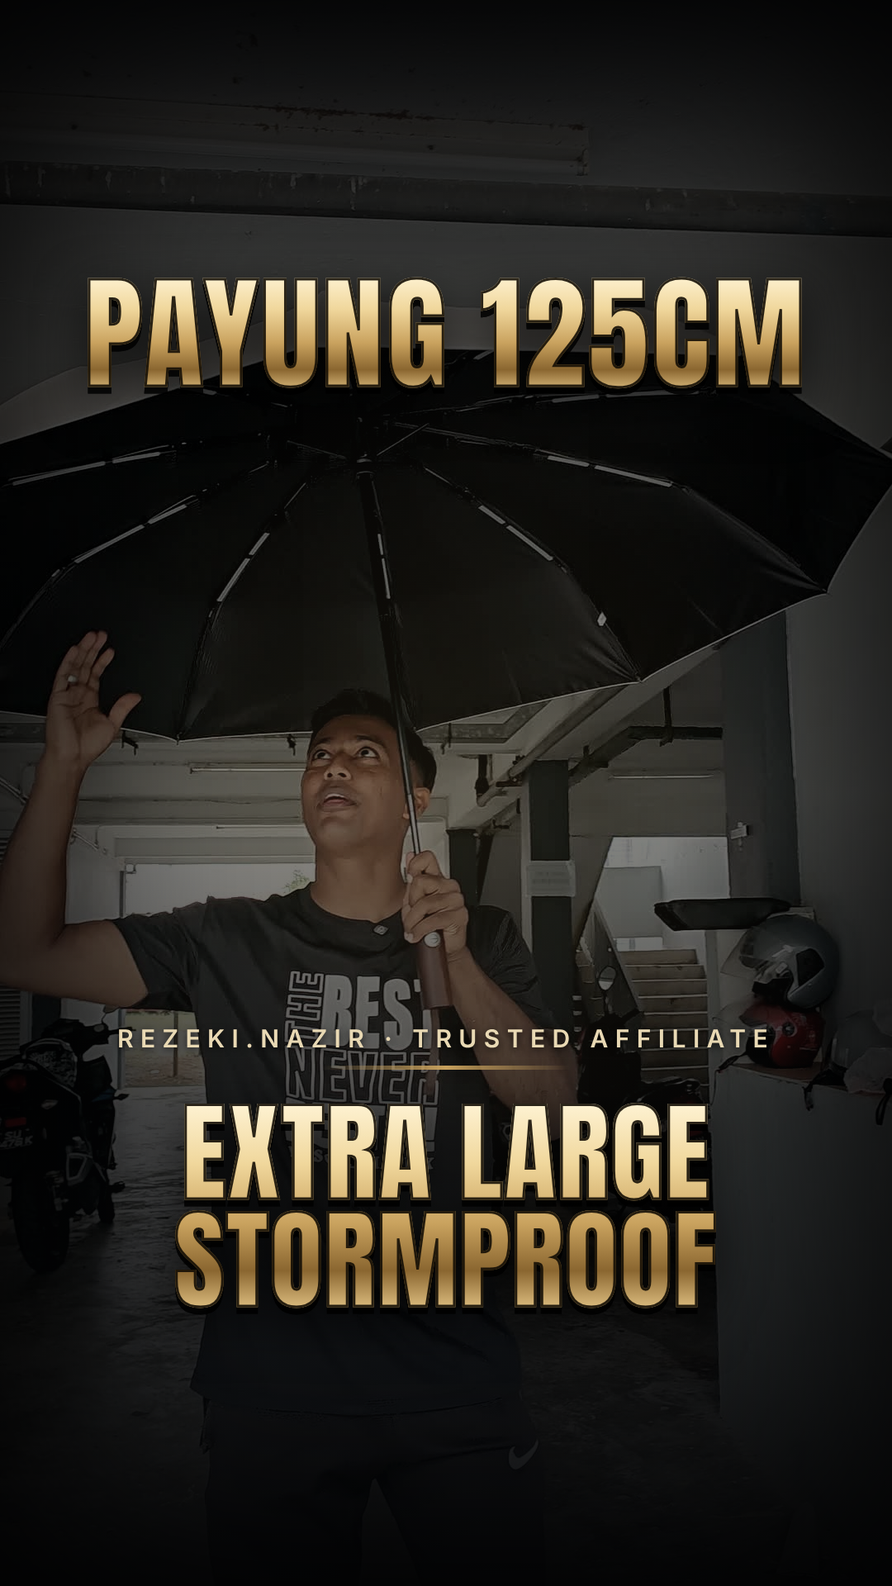
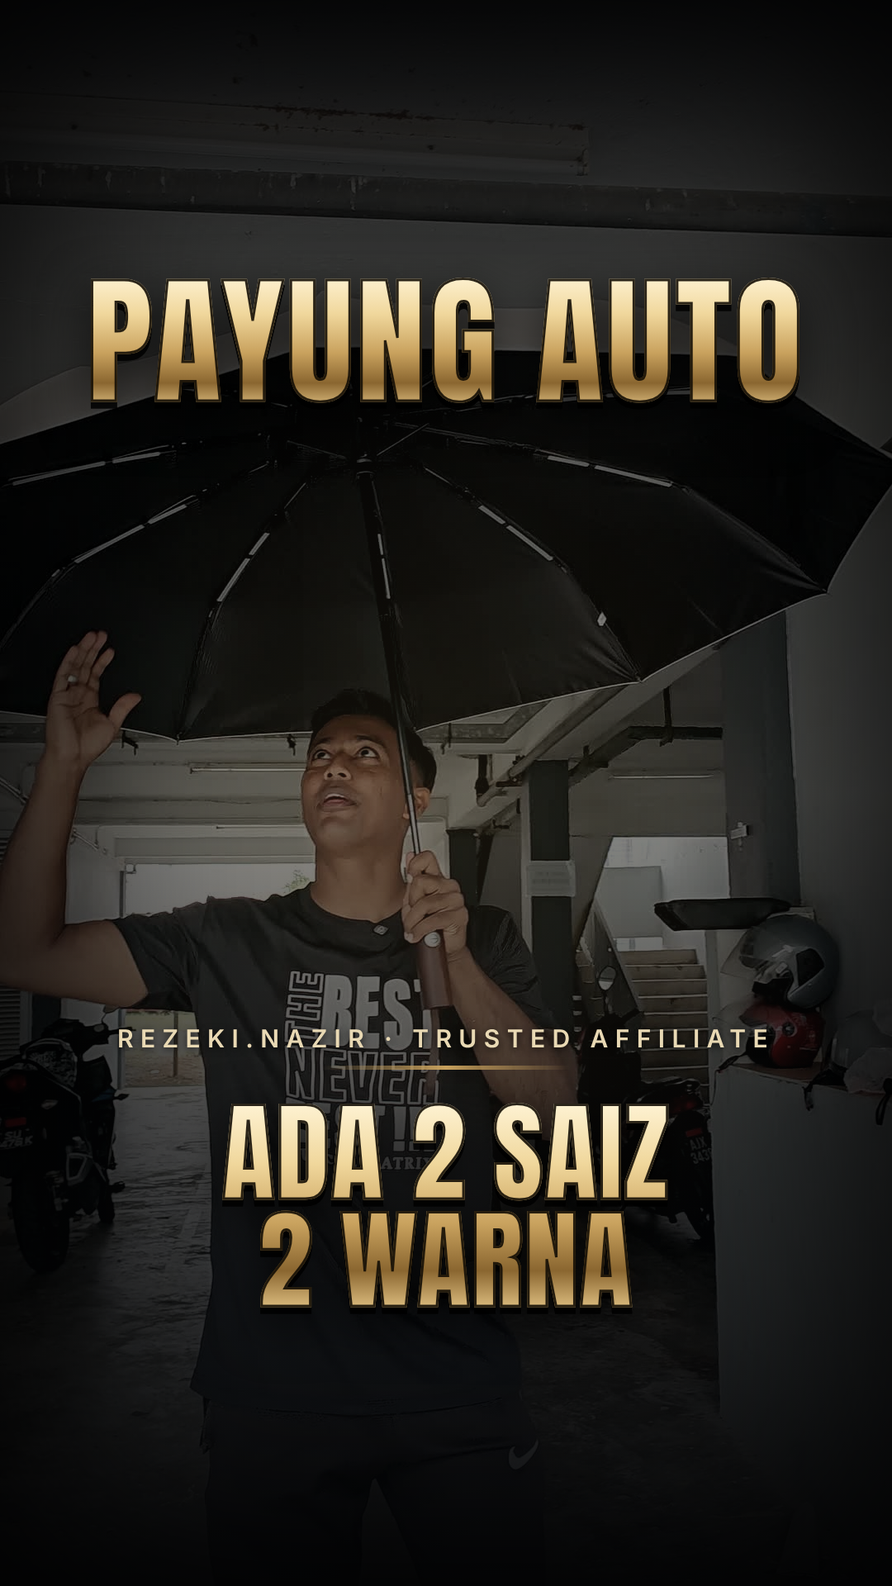
Umbrella videos: drop 125cm (two sizes), size-neutral product image, cover 6 'Payung auto · ada 2 saiz'
Claude-Session: https://claude.ai/code/session_014bXYobToP3QqzN2tDRbhyr

Changed region(s): [[0.1833, 0.6875, 0.825, 0.8438], [0.0917, 0.1562, 0.9167, 0.2812]]

diff --git a/payung-6/compositions/sc.html b/payung-6/compositions/sc.html
@@ -26,11 +26,11 @@
 
   </style>
   <div id="root" data-composition-id="sc" data-width="1080" data-height="1920">
-    <div id="hk" class="head clip" data-start="0.2" data-duration="2.9" data-track-index="0" style="top:1290px"><div id="hkt">Payung<br/><em>125CM</em></div></div>
+    <div id="hk" class="head clip" data-start="0.2" data-duration="2.9" data-track-index="0" style="top:1290px"><div id="hkt">Payung<br/><em>2 saiz</em></div></div>
     <div id="c-magic" class="chip clip" data-start="3.3" data-duration="1.9667" data-track-index="0" style="top:1330px"><span><span id="c-magicc" class="ic"><svg viewBox="0 0 24 24" fill="#fff"><path d="M12 2.5l2.9 6 6.6.9-4.8 4.6 1.2 6.5L12 17.4l-5.9 3.1 1.2-6.5L2.5 9.4l6.6-.9z"/></svg></span><span id="c-magicb" class="lb">Memang best</span></span></div>
     <div id="c-kain" class="chip clip" data-start="5.3667" data-duration="1.2667" data-track-index="0" style="top:1330px"><span><span id="c-kainc" class="ic"><svg viewBox="0 0 24 24" fill="#fff"><path d="M12 2.5l2.9 6 6.6.9-4.8 4.6 1.2 6.5L12 17.4l-5.9 3.1 1.2-6.5L2.5 9.4l6.6-.9z"/></svg></span><span id="c-kainb" class="lb">Kain tebal</span></span></div>
     <div id="p-size" class=" clip" data-start="6.7333" data-duration="2.9" data-track-index="0" style="position:absolute; inset:0" data-layout-allow-overflow><div id="p-sizebg" style="position:absolute;inset:0;background:rgba(8,9,12,.72)"></div><div id="p-sizec" style="position:absolute;left:100px;top:600px;width:880px;border-radius:30px;overflow:hidden;background:#fff;box-shadow:0 30px 80px rgba(0,0,0,.6)"><img src="assets/img/size.jpg" alt="" style="display:block;width:880px"/></div></div>
-    <div id="c-xl" class="chip clip" data-start="6.8333" data-duration="2.8" data-track-index="0" style="top:1330px"><span><span id="c-xlc" class="ic"><svg viewBox="0 0 24 24" fill="none" stroke="#fff" stroke-width="2" stroke-linecap="round" stroke-linejoin="round"><path d="M12 3s6 6.5 6 11a6 6 0 0 1-12 0c0-4.5 6-11 6-11z"/></svg></span><span id="c-xlb" class="lb">Extra large 125cm</span></span></div>
+    <div id="c-xl" class="chip clip" data-start="6.8333" data-duration="2.8" data-track-index="0" style="top:1330px"><span><span id="c-xlc" class="ic"><svg viewBox="0 0 24 24" fill="none" stroke="#fff" stroke-width="2" stroke-linecap="round" stroke-linejoin="round"><path d="M12 3s6 6.5 6 11a6 6 0 0 1-12 0c0-4.5 6-11 6-11z"/></svg></span><span id="c-xlb" class="lb">Ada 2 saiz</span></span></div>
     <div id="c-cun" class="chip clip" data-start="9.7333" data-duration="1.2333" data-track-index="0" style="top:1330px"><span><span id="c-cunc" class="ic"><svg viewBox="0 0 24 24" fill="#fff"><path d="M12 20.5s-7.5-4.6-7.5-10A4.3 4.3 0 0 1 12 7.6a4.3 4.3 0 0 1 7.5 2.9c0 5.4-7.5 10-7.5 10z"/></svg></span><span id="c-cunb" class="lb">Krim &amp; hitam</span></span></div>
     <div id="c-baloi" class="chip clip" data-start="11.0667" data-duration="3.0" data-track-index="0" style="top:1330px"><span><span id="c-baloic" class="ic"><svg viewBox="0 0 24 24" fill="#fff"><path d="M12 2.5l2.9 6 6.6.9-4.8 4.6 1.2 6.5L12 17.4l-5.9 3.1 1.2-6.5L2.5 9.4l6.6-.9z"/></svg></span><span id="c-baloib" class="lb">Keluar masuk kereta, berbaloi</span></span></div>
   </div>

diff --git a/payung-5/compositions/sc.html b/payung-5/compositions/sc.html
@@ -31,8 +31,8 @@
     <div id="c-jimat" class="chip clip" data-start="3.8" data-duration="2.3667" data-track-index="0" style="top:1330px"><span><span id="c-jimatc" class="ic"><svg viewBox="0 0 24 24" fill="#fff"><path d="M12 2.5l2.9 6 6.6.9-4.8 4.6 1.2 6.5L12 17.4l-5.9 3.1 1.2-6.5L2.5 9.4l6.6-.9z"/></svg></span><span id="c-jimatb" class="lb">Jimat masa, ruang, tenaga</span></span></div>
     <div id="c-uv" class="chip clip" data-start="6.2667" data-duration="2.8333" data-track-index="0" style="top:1330px"><span><span id="c-uvc" class="ic"><svg viewBox="0 0 24 24" fill="#fff"><path d="M12 2.5l2.9 6 6.6.9-4.8 4.6 1.2 6.5L12 17.4l-5.9 3.1 1.2-6.5L2.5 9.4l6.6-.9z"/></svg></span><span id="c-uvb" class="lb">Lindung UV</span></span></div>
     <div id="c-fiber" class="chip clip" data-start="9.2" data-duration="2.3667" data-track-index="0" style="top:1330px"><span><span id="c-fiberc" class="ic"><svg viewBox="0 0 24 24" fill="none" stroke="#fff" stroke-width="2" stroke-linecap="round" stroke-linejoin="round"><path d="M4 14l8-8 8 8"/><path d="M6 14v5M9 14v6M12 14v6M15 14v6M18 14v5"/></svg></span><span id="c-fiberb" class="lb">Fiber bone, tak mudah patah</span></span></div>
-    <div id="c-125" class="chip clip" data-start="11.6667" data-duration="1.9" data-track-index="0" style="top:1330px"><span><span id="c-125c" class="ic"><svg viewBox="0 0 24 24" fill="none" stroke="#fff" stroke-width="2" stroke-linecap="round" stroke-linejoin="round"><path d="M12 3s6 6.5 6 11a6 6 0 0 1-12 0c0-4.5 6-11 6-11z"/></svg></span><span id="c-125b" class="lb">Stormproof 125cm</span></span></div>
-    <div id="i-hero" class=" clip" data-start="11.7667" data-duration="1.8" data-track-index="0" style="position:absolute; left:50px; top:420px; width:320px"><div style="border-radius:22px;overflow:hidden;border:3px solid rgba(255,255,255,.9);box-shadow:0 24px 60px rgba(0,0,0,.5)"><img src="assets/img/hero.jpg" alt="" style="display:block;width:320px"/></div></div>
+    <div id="c-125" class="chip clip" data-start="11.6667" data-duration="1.9" data-track-index="0" style="top:1330px"><span><span id="c-125c" class="ic"><svg viewBox="0 0 24 24" fill="none" stroke="#fff" stroke-width="2" stroke-linecap="round" stroke-linejoin="round"><path d="M12 3s6 6.5 6 11a6 6 0 0 1-12 0c0-4.5 6-11 6-11z"/></svg></span><span id="c-125b" class="lb">Stormproof, tahan ribut</span></span></div>
+    <div id="i-hero" class=" clip" data-start="11.7667" data-duration="1.8" data-track-index="0" style="position:absolute; left:50px; top:420px; width:320px"><div style="border-radius:22px;overflow:hidden;border:3px solid rgba(255,255,255,.9);box-shadow:0 24px 60px rgba(0,0,0,.5)"><img src="assets/img/onetouch.jpg" alt="" style="display:block;width:320px"/></div></div>
     <div id="c-tutup" class="chip clip" data-start="13.9667" data-duration="3.1667" data-track-index="0" style="top:1330px"><span><span id="c-tutupc" class="ic"><svg viewBox="0 0 24 24" fill="none" stroke="#fff" stroke-width="2.2" stroke-linecap="round" stroke-linejoin="round"><path d="M20 12a8 8 0 1 1-2.3-5.7"/><path d="M20 4v4h-4"/></svg></span><span id="c-tutupb" class="lb">Tutup automatik</span></span></div>
   </div>
   <script>

diff --git a/payung-4/compositions/sc.html b/payung-4/compositions/sc.html
@@ -31,7 +31,7 @@
     <div id="c-auto" class="chip clip" data-start="6.2667" data-duration="1.6333" data-track-index="0" style="top:1330px"><span><span id="c-autoc" class="ic"><svg viewBox="0 0 24 24" fill="none" stroke="#fff" stroke-width="2.2" stroke-linecap="round" stroke-linejoin="round"><path d="M20 12a8 8 0 1 1-2.3-5.7"/><path d="M20 4v4h-4"/></svg></span><span id="c-autob" class="lb">Auto buka</span></span></div>
     <div id="c-cun" class="chip clip" data-start="7.9" data-duration="1.4" data-track-index="0" style="top:1330px"><span><span id="c-cunc" class="ic"><svg viewBox="0 0 24 24" fill="#fff"><path d="M12 2.5l2.9 6 6.6.9-4.8 4.6 1.2 6.5L12 17.4l-5.9 3.1 1.2-6.5L2.5 9.4l6.6-.9z"/></svg></span><span id="c-cunb" class="lb">Memang cun</span></span></div>
     <div id="c-fiber" class="chip clip" data-start="9.3" data-duration="1.5333" data-track-index="0" style="top:1330px"><span><span id="c-fiberc" class="ic"><svg viewBox="0 0 24 24" fill="none" stroke="#fff" stroke-width="2" stroke-linecap="round" stroke-linejoin="round"><path d="M4 14l8-8 8 8"/><path d="M6 14v5M9 14v6M12 14v6M15 14v6M18 14v5"/></svg></span><span id="c-fiberb" class="lb">Ada fiber bone</span></span></div>
-    <div id="i-hero" class=" clip" data-start="9.5" data-duration="2.3333" data-track-index="0" style="position:absolute; left:50px; top:420px; width:320px"><div style="border-radius:22px;overflow:hidden;border:3px solid rgba(255,255,255,.9);box-shadow:0 24px 60px rgba(0,0,0,.5)"><img src="assets/img/hero.jpg" alt="" style="display:block;width:320px"/></div></div>
+    <div id="i-hero" class=" clip" data-start="9.5" data-duration="2.3333" data-track-index="0" style="position:absolute; left:50px; top:420px; width:320px"><div style="border-radius:22px;overflow:hidden;border:3px solid rgba(255,255,255,.9);box-shadow:0 24px 60px rgba(0,0,0,.5)"><img src="assets/img/onetouch.jpg" alt="" style="display:block;width:320px"/></div></div>
     <div id="c-ribut" class="chip clip" data-start="11.9333" data-duration="2.0667" data-track-index="0" style="top:1330px"><span><span id="c-ributc" class="ic"><svg viewBox="0 0 24 24" fill="none" stroke="#fff" stroke-width="2" stroke-linecap="round" stroke-linejoin="round"><path d="M12 3s6 6.5 6 11a6 6 0 0 1-12 0c0-4.5 6-11 6-11z"/></svg></span><span id="c-ributb" class="lb">Tahan ribut</span></span></div>
     <div id="c-tutup" class="chip clip" data-start="15.8" data-duration="4.3" data-track-index="0" style="top:1330px"><span><span id="c-tutupc" class="ic"><svg viewBox="0 0 24 24" fill="none" stroke="#fff" stroke-width="2.2" stroke-linecap="round" stroke-linejoin="round"><path d="M20 12a8 8 0 1 1-2.3-5.7"/><path d="M20 4v4h-4"/></svg></span><span id="c-tutupb" class="lb">Tekan je, terus tutup</span></span></div>
   </div>

diff --git a/payung-2/compositions/sc.html b/payung-2/compositions/sc.html
@@ -32,7 +32,7 @@
     <div id="c-kain" class="chip clip" data-start="10.2" data-duration="2.2333" data-track-index="0" style="top:1330px"><span><span id="c-kainc" class="ic"><svg viewBox="0 0 24 24" fill="#fff"><path d="M12 2.5l2.9 6 6.6.9-4.8 4.6 1.2 6.5L12 17.4l-5.9 3.1 1.2-6.5L2.5 9.4l6.6-.9z"/></svg></span><span id="c-kainb" class="lb">Kain tebal</span></span></div>
     <div id="c-uv" class="chip clip" data-start="12.4333" data-duration="5.3667" data-track-index="0" style="top:1330px"><span><span id="c-uvc" class="ic"><svg viewBox="0 0 24 24" fill="#fff"><path d="M12 2.5l2.9 6 6.6.9-4.8 4.6 1.2 6.5L12 17.4l-5.9 3.1 1.2-6.5L2.5 9.4l6.6-.9z"/></svg></span><span id="c-uvb" class="lb">Lindung UV</span></span></div>
     <div id="c-fiber" class="chip clip" data-start="17.8" data-duration="3.5333" data-track-index="0" style="top:1330px"><span><span id="c-fiberc" class="ic"><svg viewBox="0 0 24 24" fill="none" stroke="#fff" stroke-width="2" stroke-linecap="round" stroke-linejoin="round"><path d="M4 14l8-8 8 8"/><path d="M6 14v5M9 14v6M12 14v6M15 14v6M18 14v5"/></svg></span><span id="c-fiberb" class="lb">Fiber bone, tak mudah patah</span></span></div>
-    <div id="i-hero" class=" clip" data-start="18.0" data-duration="4.5333" data-track-index="0" style="position:absolute; left:50px; top:420px; width:320px"><div style="border-radius:22px;overflow:hidden;border:3px solid rgba(255,255,255,.9);box-shadow:0 24px 60px rgba(0,0,0,.5)"><img src="assets/img/hero.jpg" alt="" style="display:block;width:320px"/></div></div>
+    <div id="i-hero" class=" clip" data-start="18.0" data-duration="4.5333" data-track-index="0" style="position:absolute; left:50px; top:420px; width:320px"><div style="border-radius:22px;overflow:hidden;border:3px solid rgba(255,255,255,.9);box-shadow:0 24px 60px rgba(0,0,0,.5)"><img src="assets/img/onetouch.jpg" alt="" style="display:block;width:320px"/></div></div>
     <div id="c-tutup" class="chip clip" data-start="23.8667" data-duration="1.6667" data-track-index="0" style="top:1330px"><span><span id="c-tutupc" class="ic"><svg viewBox="0 0 24 24" fill="none" stroke="#fff" stroke-width="2.2" stroke-linecap="round" stroke-linejoin="round"><path d="M20 12a8 8 0 1 1-2.3-5.7"/><path d="M20 4v4h-4"/></svg></span><span id="c-tutupb" class="lb">Tekan, terus tutup</span></span></div>
     <div id="c-basah" class="chip clip" data-start="25.5333" data-duration="2.5333" data-track-index="0" style="top:1330px"><span><span id="c-basahc" class="ic"><svg viewBox="0 0 24 24" fill="none" stroke="#fff" stroke-width="2" stroke-linecap="round" stroke-linejoin="round"><path d="M12 3s6 6.5 6 11a6 6 0 0 1-12 0c0-4.5 6-11 6-11z"/></svg></span><span id="c-basahb" class="lb">Masuk kereta tak basah</span></span></div>
   </div>

diff --git a/payung-1/compositions/brand.html b/payung-1/compositions/brand.html
@@ -29,7 +29,7 @@
 
   </style>
   <div id="root" data-composition-id="brand" data-width="1080" data-height="1920">
-    <div id="hd" class=" clip" data-start="0.0" data-duration="20.5333" data-track-index="0" style="position:absolute; inset:0"><div id="hd-l" style="position:absolute;left:84px;top:252px;display:flex;align-items:stretch;gap:16px"><div style="width:7px;border-radius:4px;background:linear-gradient(180deg,#f3dfb1,#c9a25e 55%,#8f6a32)"></div><div class="hdt">REZEKI.NAZIR<br/>TRUSTED AFFILIATE</div></div><div id="hd-r" class="hdt" style="position:absolute;right:94px;top:252px;text-align:right">A BIG HOME LIVING<br/>PAYUNG AUTO 125CM</div></div>
+    <div id="hd" class=" clip" data-start="0.0" data-duration="20.5333" data-track-index="0" style="position:absolute; inset:0"><div id="hd-l" style="position:absolute;left:84px;top:252px;display:flex;align-items:stretch;gap:16px"><div style="width:7px;border-radius:4px;background:linear-gradient(180deg,#f3dfb1,#c9a25e 55%,#8f6a32)"></div><div class="hdt">REZEKI.NAZIR<br/>TRUSTED AFFILIATE</div></div><div id="hd-r" class="hdt" style="position:absolute;right:94px;top:252px;text-align:right">A BIG HOME LIVING<br/>PAYUNG AUTO</div></div>
   </div>
   <script>
     const tl = gsap.timeline({ paused: true });

diff --git a/payung-2/compositions/brand.html b/payung-2/compositions/brand.html
@@ -29,7 +29,7 @@
 
   </style>
   <div id="root" data-composition-id="brand" data-width="1080" data-height="1920">
-    <div id="hd" class=" clip" data-start="0.0" data-duration="33.4667" data-track-index="0" style="position:absolute; inset:0"><div id="hd-l" style="position:absolute;left:84px;top:252px;display:flex;align-items:stretch;gap:16px"><div style="width:7px;border-radius:4px;background:linear-gradient(180deg,#f3dfb1,#c9a25e 55%,#8f6a32)"></div><div class="hdt">REZEKI.NAZIR<br/>TRUSTED AFFILIATE</div></div><div id="hd-r" class="hdt" style="position:absolute;right:94px;top:252px;text-align:right">A BIG HOME LIVING<br/>PAYUNG AUTO 125CM</div></div>
+    <div id="hd" class=" clip" data-start="0.0" data-duration="33.4667" data-track-index="0" style="position:absolute; inset:0"><div id="hd-l" style="position:absolute;left:84px;top:252px;display:flex;align-items:stretch;gap:16px"><div style="width:7px;border-radius:4px;background:linear-gradient(180deg,#f3dfb1,#c9a25e 55%,#8f6a32)"></div><div class="hdt">REZEKI.NAZIR<br/>TRUSTED AFFILIATE</div></div><div id="hd-r" class="hdt" style="position:absolute;right:94px;top:252px;text-align:right">A BIG HOME LIVING<br/>PAYUNG AUTO</div></div>
   </div>
   <script>
     const tl = gsap.timeline({ paused: true });

diff --git a/payung-5/compositions/brand.html b/payung-5/compositions/brand.html
@@ -29,7 +29,7 @@
 
   </style>
   <div id="root" data-composition-id="brand" data-width="1080" data-height="1920">
-    <div id="hd" class=" clip" data-start="0.0" data-duration="22.8333" data-track-index="0" style="position:absolute; inset:0"><div id="hd-l" style="position:absolute;left:84px;top:252px;display:flex;align-items:stretch;gap:16px"><div style="width:7px;border-radius:4px;background:linear-gradient(180deg,#f3dfb1,#c9a25e 55%,#8f6a32)"></div><div class="hdt">REZEKI.NAZIR<br/>TRUSTED AFFILIATE</div></div><div id="hd-r" class="hdt" style="position:absolute;right:94px;top:252px;text-align:right">A BIG HOME LIVING<br/>PAYUNG AUTO 125CM</div></div>
+    <div id="hd" class=" clip" data-start="0.0" data-duration="22.8333" data-track-index="0" style="position:absolute; inset:0"><div id="hd-l" style="position:absolute;left:84px;top:252px;display:flex;align-items:stretch;gap:16px"><div style="width:7px;border-radius:4px;background:linear-gradient(180deg,#f3dfb1,#c9a25e 55%,#8f6a32)"></div><div class="hdt">REZEKI.NAZIR<br/>TRUSTED AFFILIATE</div></div><div id="hd-r" class="hdt" style="position:absolute;right:94px;top:252px;text-align:right">A BIG HOME LIVING<br/>PAYUNG AUTO</div></div>
   </div>
   <script>
     const tl = gsap.timeline({ paused: true });

diff --git a/payung-6/compositions/brand.html b/payung-6/compositions/brand.html
@@ -29,7 +29,7 @@
 
   </style>
   <div id="root" data-composition-id="brand" data-width="1080" data-height="1920">
-    <div id="hd" class=" clip" data-start="0.0" data-duration="18.0333" data-track-index="0" style="position:absolute; inset:0"><div id="hd-l" style="position:absolute;left:84px;top:252px;display:flex;align-items:stretch;gap:16px"><div style="width:7px;border-radius:4px;background:linear-gradient(180deg,#f3dfb1,#c9a25e 55%,#8f6a32)"></div><div class="hdt">REZEKI.NAZIR<br/>TRUSTED AFFILIATE</div></div><div id="hd-r" class="hdt" style="position:absolute;right:94px;top:252px;text-align:right">A BIG HOME LIVING<br/>PAYUNG AUTO 125CM</div></div>
+    <div id="hd" class=" clip" data-start="0.0" data-duration="18.0333" data-track-index="0" style="position:absolute; inset:0"><div id="hd-l" style="position:absolute;left:84px;top:252px;display:flex;align-items:stretch;gap:16px"><div style="width:7px;border-radius:4px;background:linear-gradient(180deg,#f3dfb1,#c9a25e 55%,#8f6a32)"></div><div class="hdt">REZEKI.NAZIR<br/>TRUSTED AFFILIATE</div></div><div id="hd-r" class="hdt" style="position:absolute;right:94px;top:252px;text-align:right">A BIG HOME LIVING<br/>PAYUNG AUTO</div></div>
   </div>
   <script>
     const tl = gsap.timeline({ paused: true });

diff --git a/payung-3/compositions/brand.html b/payung-3/compositions/brand.html
@@ -29,7 +29,7 @@
 
   </style>
   <div id="root" data-composition-id="brand" data-width="1080" data-height="1920">
-    <div id="hd" class=" clip" data-start="0.0" data-duration="26.9" data-track-index="0" style="position:absolute; inset:0"><div id="hd-l" style="position:absolute;left:84px;top:252px;display:flex;align-items:stretch;gap:16px"><div style="width:7px;border-radius:4px;background:linear-gradient(180deg,#f3dfb1,#c9a25e 55%,#8f6a32)"></div><div class="hdt">REZEKI.NAZIR<br/>TRUSTED AFFILIATE</div></div><div id="hd-r" class="hdt" style="position:absolute;right:94px;top:252px;text-align:right">A BIG HOME LIVING<br/>PAYUNG AUTO 125CM</div></div>
+    <div id="hd" class=" clip" data-start="0.0" data-duration="26.9" data-track-index="0" style="position:absolute; inset:0"><div id="hd-l" style="position:absolute;left:84px;top:252px;display:flex;align-items:stretch;gap:16px"><div style="width:7px;border-radius:4px;background:linear-gradient(180deg,#f3dfb1,#c9a25e 55%,#8f6a32)"></div><div class="hdt">REZEKI.NAZIR<br/>TRUSTED AFFILIATE</div></div><div id="hd-r" class="hdt" style="position:absolute;right:94px;top:252px;text-align:right">A BIG HOME LIVING<br/>PAYUNG AUTO</div></div>
   </div>
   <script>
     const tl = gsap.timeline({ paused: true });

diff --git a/payung-4/compositions/brand.html b/payung-4/compositions/brand.html
@@ -29,7 +29,7 @@
 
   </style>
   <div id="root" data-composition-id="brand" data-width="1080" data-height="1920">
-    <div id="hd" class=" clip" data-start="0.0" data-duration="26.3" data-track-index="0" style="position:absolute; inset:0"><div id="hd-l" style="position:absolute;left:84px;top:252px;display:flex;align-items:stretch;gap:16px"><div style="width:7px;border-radius:4px;background:linear-gradient(180deg,#f3dfb1,#c9a25e 55%,#8f6a32)"></div><div class="hdt">REZEKI.NAZIR<br/>TRUSTED AFFILIATE</div></div><div id="hd-r" class="hdt" style="position:absolute;right:94px;top:252px;text-align:right">A BIG HOME LIVING<br/>PAYUNG AUTO 125CM</div></div>
+    <div id="hd" class=" clip" data-start="0.0" data-duration="26.3" data-track-index="0" style="position:absolute; inset:0"><div id="hd-l" style="position:absolute;left:84px;top:252px;display:flex;align-items:stretch;gap:16px"><div style="width:7px;border-radius:4px;background:linear-gradient(180deg,#f3dfb1,#c9a25e 55%,#8f6a32)"></div><div class="hdt">REZEKI.NAZIR<br/>TRUSTED AFFILIATE</div></div><div id="hd-r" class="hdt" style="position:absolute;right:94px;top:252px;text-align:right">A BIG HOME LIVING<br/>PAYUNG AUTO</div></div>
   </div>
   <script>
     const tl = gsap.timeline({ paused: true });

diff --git a/payung-base/tools/cover/make.js b/payung-base/tools/cover/make.js
@@ -8,7 +8,7 @@ const jobs = [
   { out: 'cover-payung-3.png', img: 'f_d_4.jpg', pos: '50% 50%', top: 'HUJAN? RELAKS', bot: 'KELUAR KERETA<br>TAK BASAH' },
   { out: 'cover-payung-4.png', img: 'f_e_13.5.jpg', pos: '50% 50%', top: 'VIRAL DI TIKTOK', bot: 'PAYUNG AUTO<br>TAHAN RIBUT' },
   { out: 'cover-payung-5.png', img: 'f_b_16.jpg', pos: '50% 50%', top: '1 TEKAN', bot: 'TERUS<br>TERBUKA' },
-  { out: 'cover-payung-6.png', img: 'f_b_19.jpg', pos: '50% 50%', top: 'PAYUNG 125CM', bot: 'EXTRA LARGE<br>STORMPROOF' },
+  { out: 'cover-payung-6.png', img: 'f_b_19.jpg', pos: '50% 50%', top: 'PAYUNG AUTO', bot: 'ADA 2 SAIZ<br>2 WARNA' },
 ];
 const _old = [
   { out: 'cover-brush-1.png', img: 'f_a_37.0.jpg', pos: '50% 45%', top: '2 DALAM 1', bot: 'BERUS +<br>PENARIK AIR' },

diff --git a/payung-base/tools/build.py b/payung-base/tools/build.py
@@ -1,5 +1,5 @@
 #!/usr/bin/env python3
-"""A BIG HOME LIVING Stormproof 125 cm auto umbrella — six short (<40 s) videos with different hooks from five raw clips
+"""A BIG HOME LIVING auto umbrella (2 sizes) — six short (<40 s) videos with different hooks from five raw clips
 (raw_b is wordless open/close b-roll, kept silent), reference style, HD grade baked into raw_*.mp4.
 Usage: python3 -I build.py <transcript.json> <project_dir> <1..6>
 """
@@ -62,7 +62,7 @@ VARIANTS = {
         ("cta", "e", 31.00, 34.70, 1.0, "low"),
         ("tail", "b", 27.00, 29.00, 0.0, "low"),
     ],
-    "6": [  # payung 125 cm, 2 warna (b-roll led)
+    "6": [  # 2 saiz, 2 warna (b-roll led)
         ("b0", "b", 12.50, 15.50, 0.0, "low"),
         ("v1", "d", 0.00, 2.25, 1.0, "low"),
         ("v2", "c", 12.75, 14.10, 1.0, "low"),
@@ -381,7 +381,7 @@ PARTS = {
         C("c-kain", "Kain tebal", "star", "c1", W("c1", 12.8), W("c1", 15.04)),
         C("c-uv", "Lindung UV", "star", "c1", W("c1", 15.04), W("c1", 20.4)),
         C("c-fiber", "Fiber bone, tak mudah patah", "brush", "c1", W("c1", 20.4)),
-        IMG("i-hero", "assets/img/hero.jpg", "c1", W("c1", 20.4) + 0.2, end("c2"), w=320),
+        IMG("i-hero", "assets/img/onetouch.jpg", "c1", W("c1", 20.4) + 0.2, end("c2"), w=320),
         C("c-tutup", "Tekan, terus tutup", "spin", "c3", W("c3", 29.2), W("c3", 30.88)),
         C("c-basah", "Masuk kereta tak basah", "drop", "c3", W("c3", 30.88)),
     ],
@@ -401,7 +401,7 @@ PARTS = {
         C("c-auto", "Auto buka", "spin", "e2", W("e2", 12.35), W("e2", 14.01)),
         C("c-cun", "Memang cun", "star", "e2", W("e2", 14.01), W("e2", 15.41)),
         C("c-fiber", "Ada fiber bone", "brush", "e2", W("e2", 15.41)),
-        IMG("i-hero", "assets/img/hero.jpg", "e2", W("e2", 15.41) + 0.2, end("e3"), w=320),
+        IMG("i-hero", "assets/img/onetouch.jpg", "e2", W("e2", 15.41) + 0.2, end("e3"), w=320),
         C("c-ribut", "Tahan ribut", "drop", "e4", st("e4") + 0.1),
         C("c-tutup", "Tekan je, terus tutup", "spin", "e5", W("e5", 26.69)),
     ],
@@ -411,16 +411,16 @@ PARTS = {
         C("c-jimat", "Jimat masa, ruang, tenaga", "star", "v1", st("v1") + 0.1),
         C("c-uv", "Lindung UV", "star", "v2", st("v2") + 0.1),
         C("c-fiber", "Fiber bone, tak mudah patah", "brush", "v3", st("v3") + 0.1),
-        C("c-125", "Stormproof 125cm", "drop", "b2", st("b2") + 0.1),
-        IMG("i-hero", "assets/img/hero.jpg", "b2", st("b2") + 0.2, end("b2"), w=320),
+        C("c-125", "Stormproof, tahan ribut", "drop", "b2", st("b2") + 0.1),
+        IMG("i-hero", "assets/img/onetouch.jpg", "b2", st("b2") + 0.2, end("b2"), w=320),
         C("c-tutup", "Tutup automatik", "spin", "v4", st("v4") + 0.4),
     ],
     "6": lambda: [
-        head("hk", "Payung<br/><em>125CM</em>", 0.2, end("b0") - 0.1, 1290),
+        head("hk", "Payung<br/><em>2 saiz</em>", 0.2, end("b0") - 0.1, 1290),
         C("c-magic", "Memang best", "star", "v1", st("v1") + 0.3),
         C("c-kain", "Kain tebal", "star", "v2", st("v2") + 0.1),
         photo_insert("p-size", "assets/img/size.jpg", st("b1") + 0.1, end("b1") - st("b1") - 0.1),
-        C("c-xl", "Extra large 125cm", "drop", "b1", st("b1") + 0.2),
+        C("c-xl", "Ada 2 saiz", "drop", "b1", st("b1") + 0.2),
         C("c-cun", "Krim &amp; hitam", "heart", "v3", st("v3") + 0.1),
         C("c-baloi", "Keluar masuk kereta, berbaloi", "star", "v4", st("v4") + 0.1),
     ],
@@ -448,7 +448,7 @@ build_scene("outro", [
 
 # ---- creator / product header, on screen the whole video (like the reference)
 HEAD_L = ("REZEKI.NAZIR", "TRUSTED AFFILIATE")
-HEAD_R = ("A BIG HOME LIVING", "PAYUNG AUTO 125CM")
+HEAD_R = ("A BIG HOME LIVING", "PAYUNG AUTO")
 hdr = (f'<div id="hd-l" style="position:absolute;left:84px;top:252px;display:flex;align-items:stretch;gap:16px">'
        f'<div style="width:7px;border-radius:4px;background:linear-gradient(180deg,#f3dfb1,#c9a25e 55%,#8f6a32)"></div>'
        f'<div class="hdt">{HEAD_L[0]}<br/>{HEAD_L[1]}</div></div>'
